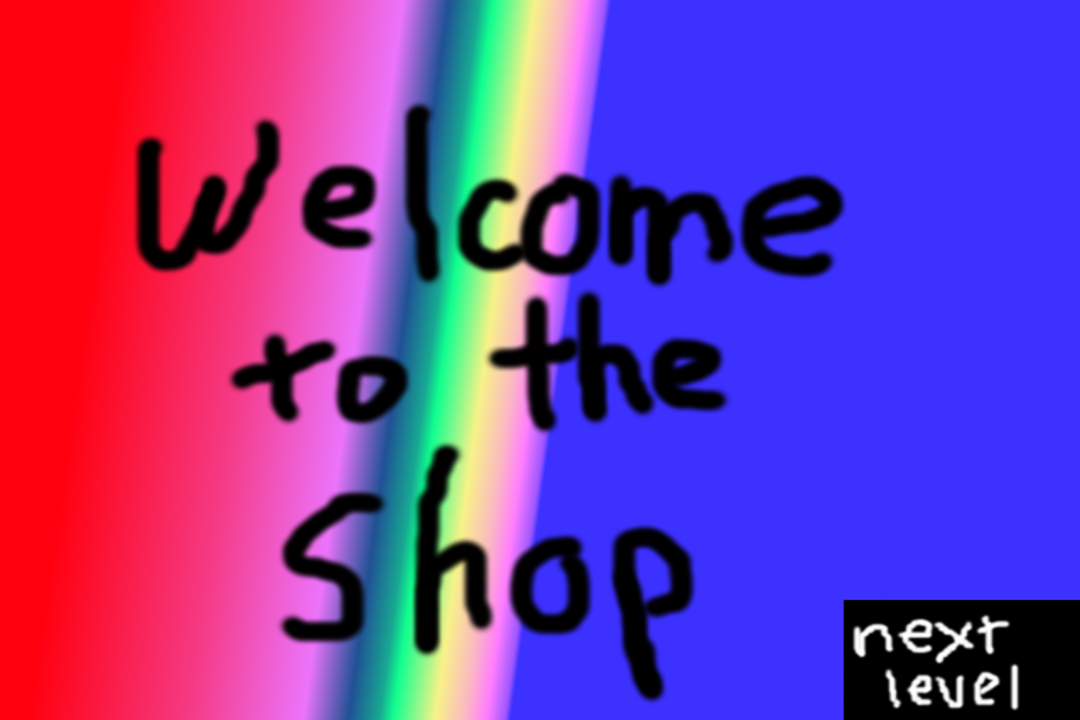
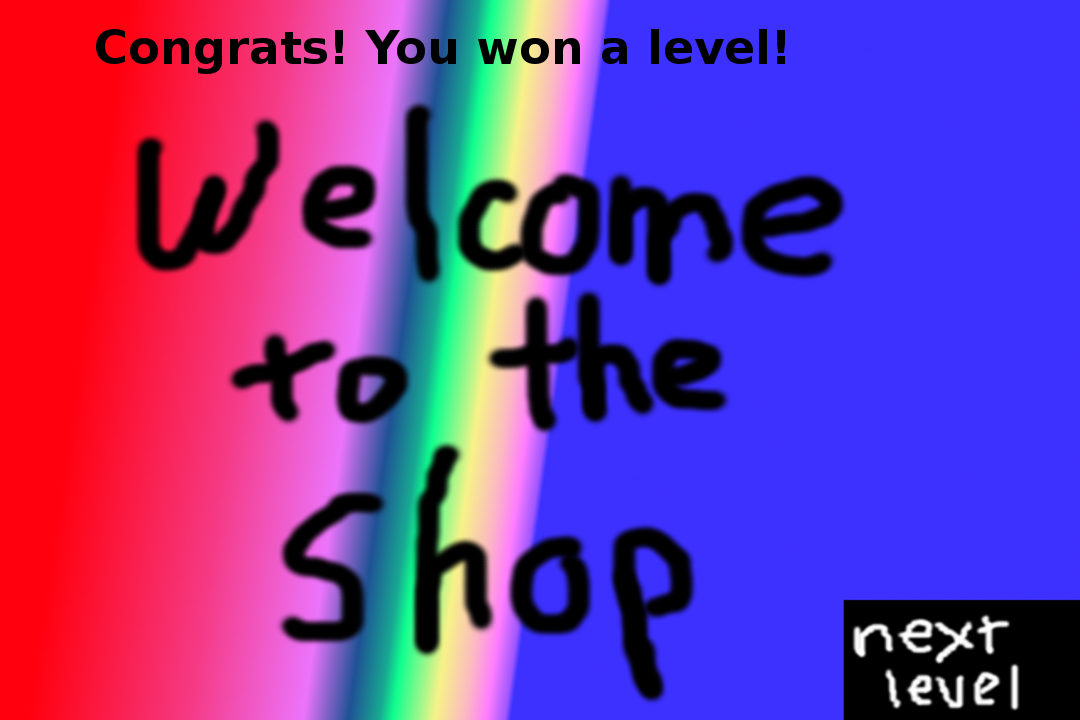
after all enemies die, the next level (shop) starts.

Changed region(s): [[0.0917, 0.0306, 0.7333, 0.1222]]

diff --git a/test.py b/test.py
@@ -252,6 +252,7 @@ cur_char = "vac0"
 # find a way to specify the weapon later
 
 def enemy_projectile_collision(dt):
+    global is_shop
     remove_enemies = []
     remove_projectiles = []
     for enemy in levels[level_number].enemies:
@@ -277,7 +278,10 @@ def enemy_projectile_collision(dt):
         if projectile in levels[level_number].projectiles:
             levels[level_number].projectiles.remove(projectile)
 
-                #print("collide")
+    if len(levels[level_number].enemies) == 0:
+        levels[level_number].projectiles = [] # save memory/CPU?
+        # you have beat the level.
+        is_shop = True
 clock.schedule(enemy_projectile_collision)
 
 def timed_erase_dots(dt):
@@ -289,7 +293,9 @@ def timed_erase_dots(dt):
             test_places_clicked.pop(idx)
         else:
             idx += 1
-clock.schedule(timed_erase_dots)
+#####
+# clock.schedule(timed_erase_dots)
+#####
 
 def move_all(dt):
     if is_game_over:
